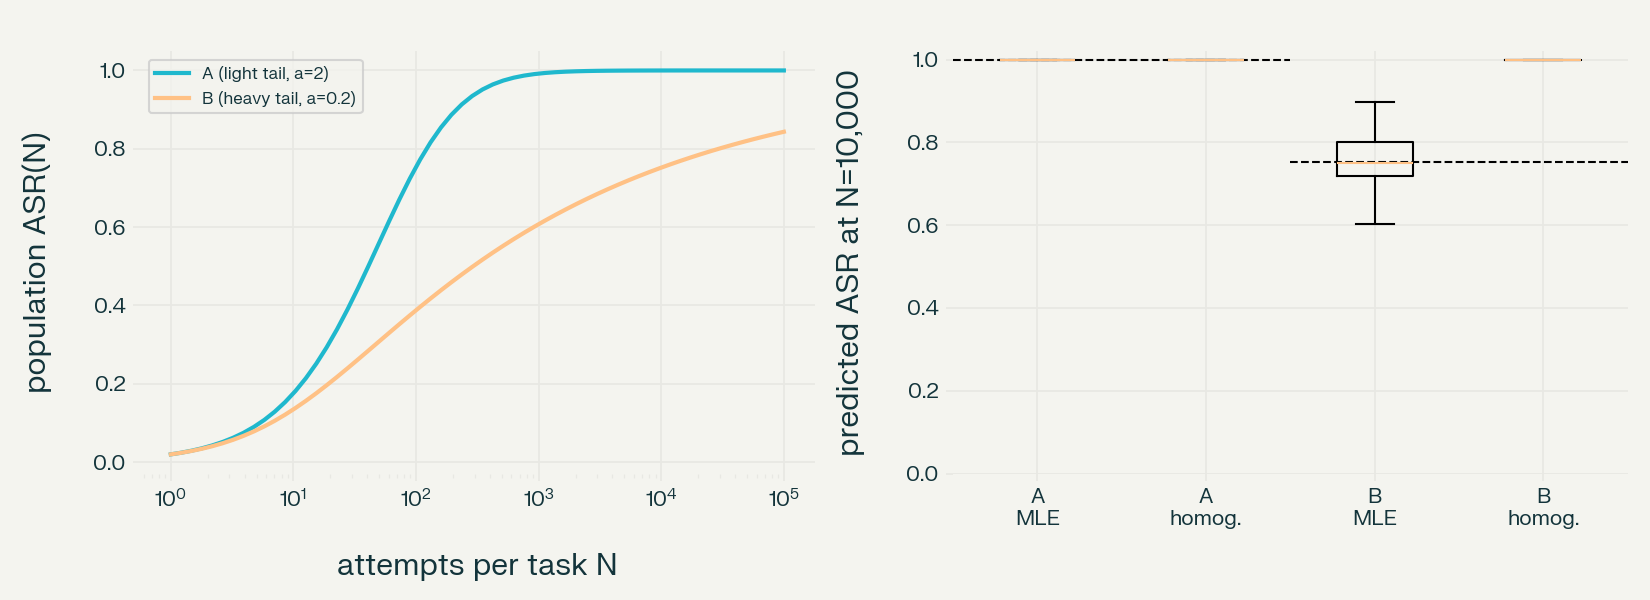
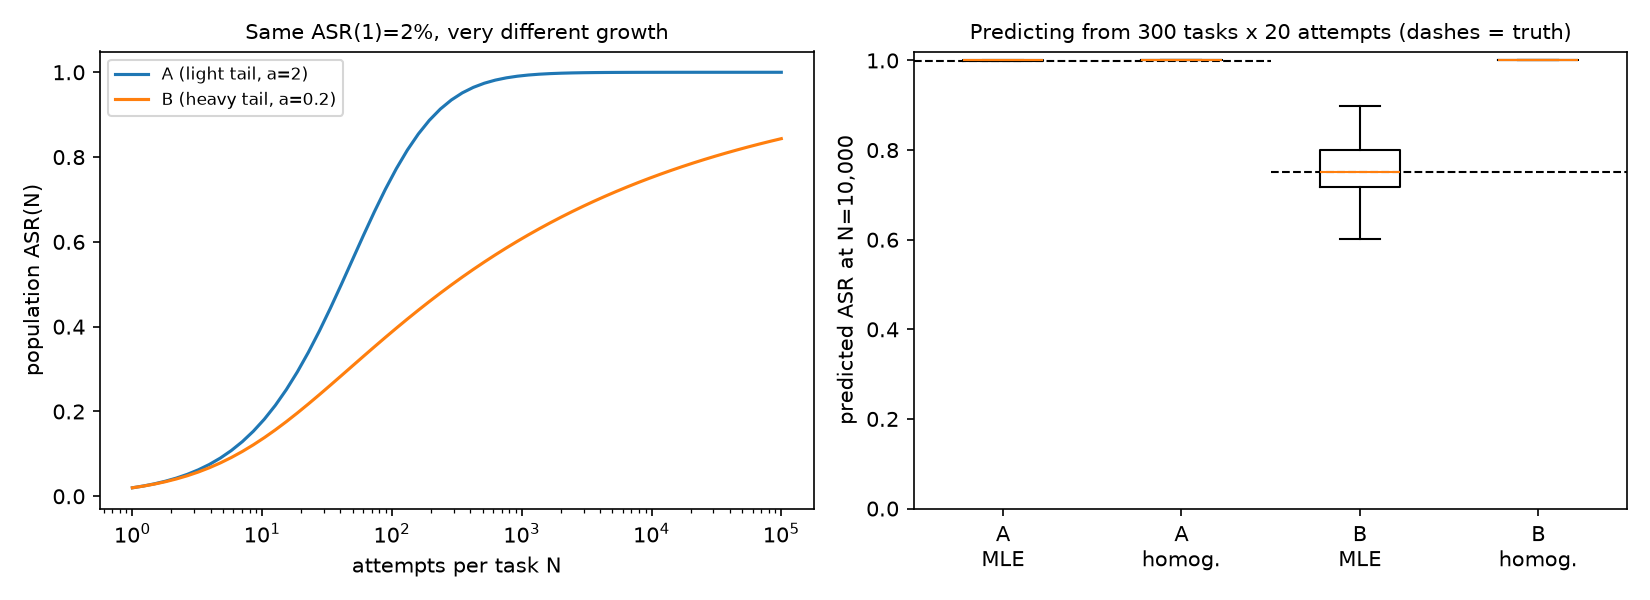
Fix heavy-tail plot call, move tests, add uv project files and regenerated results

diff --git a/heavy_tail.py b/heavy_tail.py
@@ -68,7 +68,9 @@ for name, (a, b) in DEF.items():
     data += [mle[10000], hom[10000]]; short = name.split(" (")[0]
     labs += [short + "\nMLE", short + "\nhomog."]
     ax2.hlines(asr(a, b, 10000), i + 0.5, i + 2.5, colors="k", linestyles="--", lw=1); i += 2
-ax2.boxplot(data, labels=labs, showfliers=False)
+ax2.boxplot(data, showfliers=False)
+ax2.set_xticks(range(1, len(labs) + 1))
+ax2.set_xticklabels(labs)
 ax2.set_ylabel("predicted ASR at N=10,000"); ax2.set_ylim(0, 1.02)
 ax2.set_title("Predicting from 300 tasks x 20 attempts (dashes = truth)", fontsize=10)
 plt.tight_layout(); plt.savefig("heavy_tail.png", dpi=150)

diff --git a/README.md b/README.md
@@ -18,6 +18,14 @@ Tested on Python 3.12; should work on 3.9 or later.
     python utility.py        # utility_curve.csv, utility_curve.png
     python heavy_tail.py     # heavy_tail_results.csv, heavy_tail.png (fixed seed 2026)
 
+Or:
+
+uv sync
+uv run pytest -q tests
+uv run python experiments.py
+uv run python utility.py
+uv run python heavy_tail.py
+
 ## Layout
 
 | File | Purpose |
